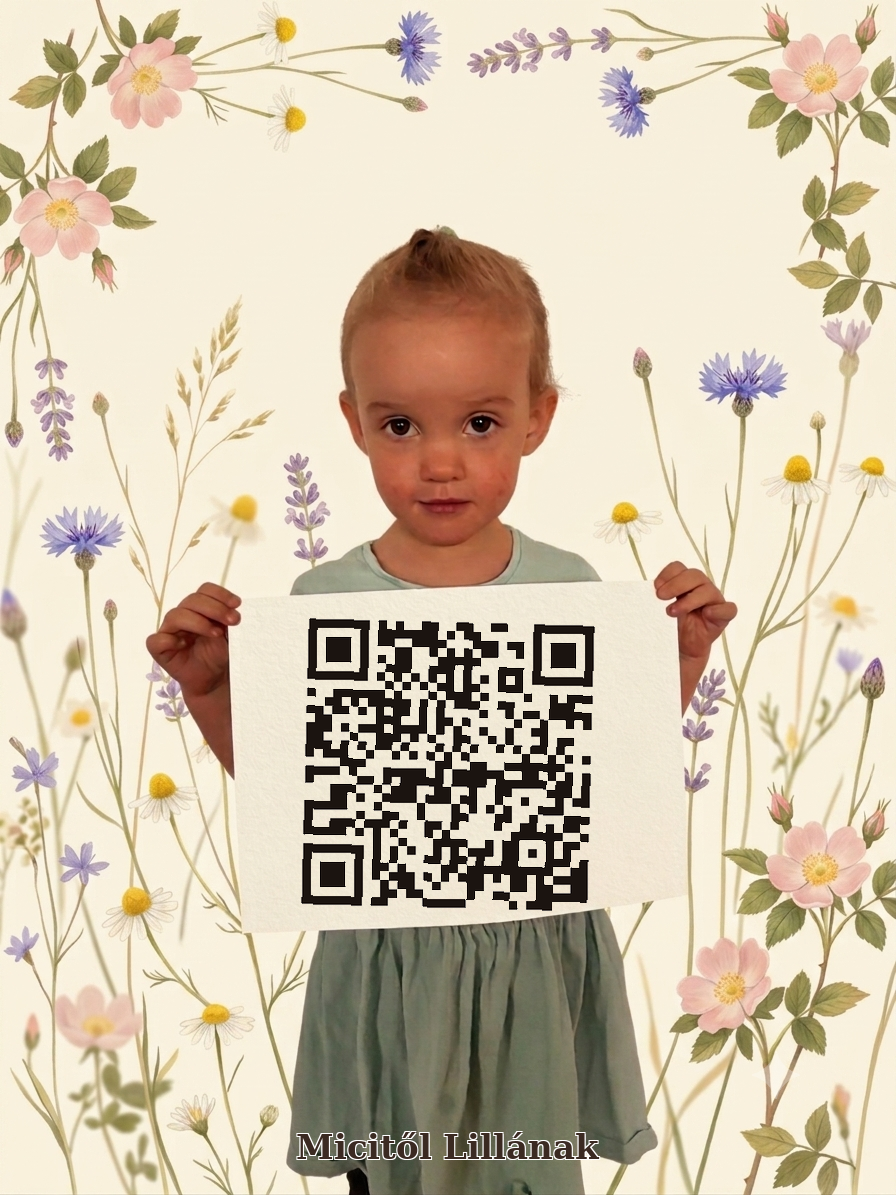
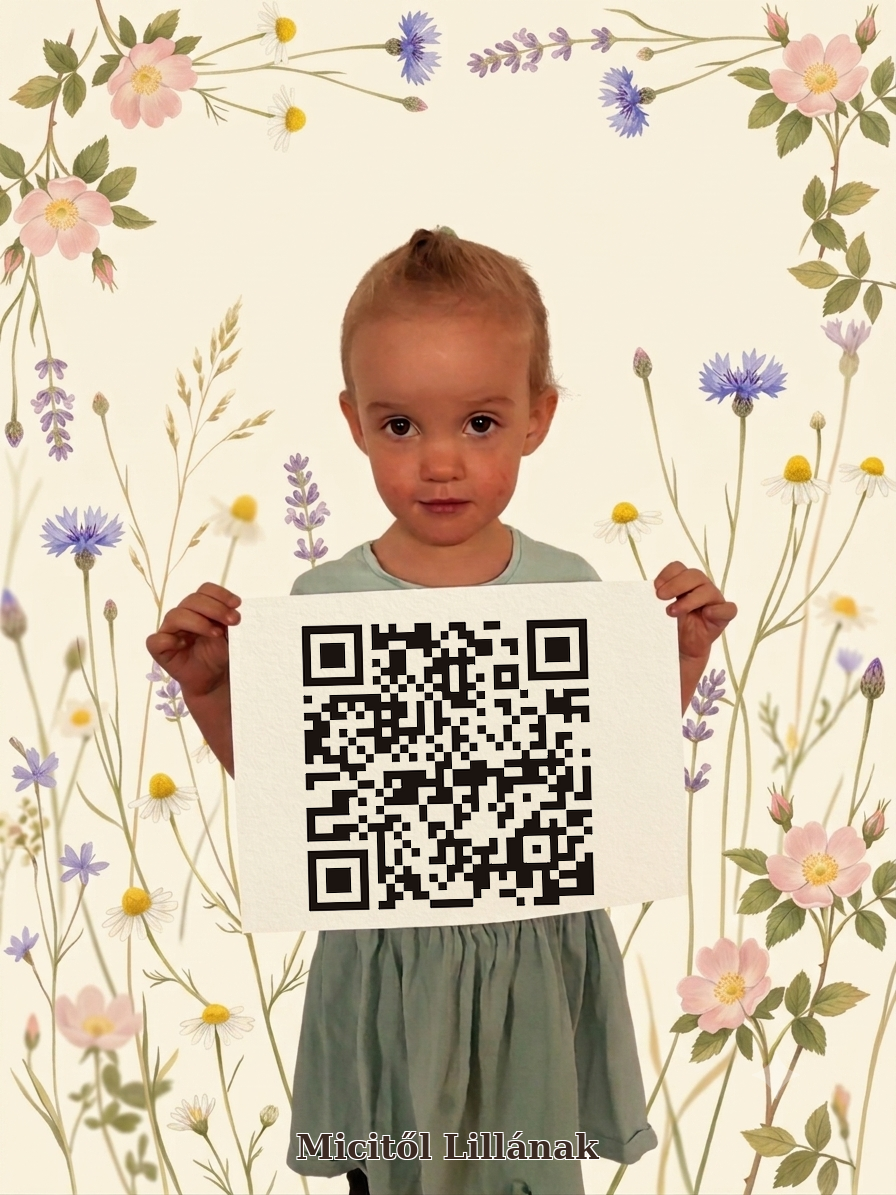
Smooth and correct greeting card QR rotation

Changed region(s): [[0.3125, 0.4954, 0.6875, 0.7741]]

diff --git a/scripts/generate-greeting-cards.py b/scripts/generate-greeting-cards.py
@@ -23,8 +23,8 @@ FONT_PATH = Path("/usr/share/fonts/truetype/dejavu/DejaVuSerif-Bold.ttf")
 PAPER_BOX = (240, 590, 679, 940)
 # A 320 px code nearly fills the paper height while retaining a scan margin.
 QR_BOX = (288, 605, 608, 925)
-# The paper's top edge slopes slightly downward towards the right.
-QR_ROTATION_DEGREES = -1.5
+# The paper's top edge slopes slightly upward towards the right.
+QR_ROTATION_DEGREES = 1.5
 TEXT_BOTTOM_OFFSET = 68
 
 TRACKS = [
@@ -88,13 +88,13 @@ def compose_card(template: Image.Image, recipient: str, url: str) -> Image.Image
     )
     qr = qr.rotate(
         QR_ROTATION_DEGREES,
-        resample=Image.Resampling.NEAREST,
+        resample=Image.Resampling.BICUBIC,
         expand=True,
         fillcolor="#ffffff",
     )
     dark_modules = dark_modules.rotate(
         QR_ROTATION_DEGREES,
-        resample=Image.Resampling.NEAREST,
+        resample=Image.Resampling.BICUBIC,
         expand=True,
         fillcolor=0,
     )
